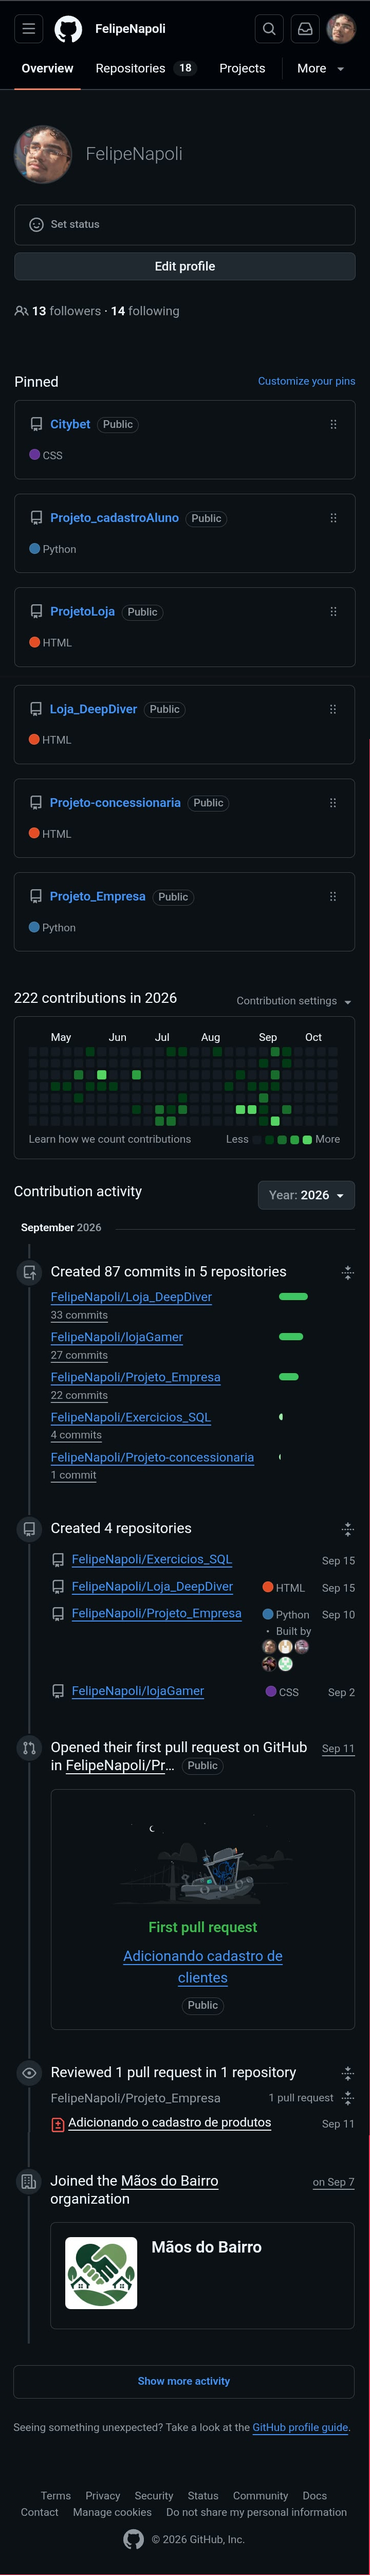
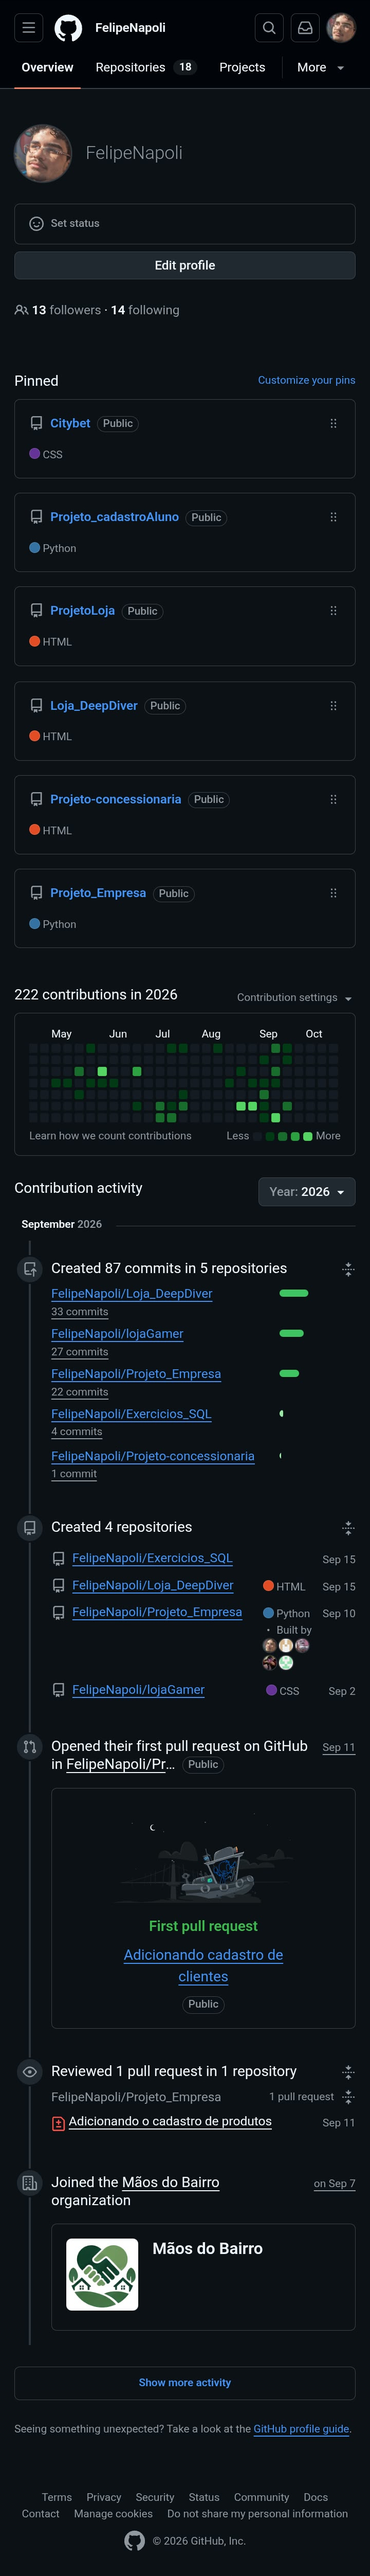
feat: Adicionando os links das páginas e ligando ao iframe

diff --git a/contatos.html b/contatos.html
@@ -93,6 +93,31 @@
             display: flex;
             align-items: center;
             justify-content: center;
+            transition: transform 0.3s ease, box-shadow 0.3s ease;
+        }
+
+        .botoes:hover {
+            cursor: pointer;
+            transform: scale(1.1);
+            box-shadow: 0 4px 8px rgba(0, 0, 0, 0.774);
+        }
+
+        .botoes:hover h3 {
+            color: var(--btn-color);
+            text-decoration: underline;
+            text-decoration-color: var(--btn-color);
+            text-decoration-thickness: 3px;
+            text-underline-offset: 4px;
+        }
+
+        .botoes:active {
+            transform: scale(1);
+            box-shadow: 0 2px 4px rgba(0, 0, 0, 0.774);
+        }
+
+        a {
+            text-decoration: none;
+            color: inherit;
         }
 
         .logo-botao {
@@ -192,31 +217,39 @@
 
     <main class="celular-conteiner">
         <div class="celular">
-            <iframe src="" frameborder="0">
+            <iframe src="" frameborder="0" name="contato">
 
             </iframe>
         </div>
 
         <section class="botoes-container">
-            <article class="botoes">
-                <img src="src/assets/home-icon.png" alt="logo-home" class="logo-botao">
-                <h3>Home</h3>
-            </article>
+            <a href="home.html" target="contato">
+                <article class="botoes">
+                    <img src="src/assets/home-icon.png" alt="logo-home" class="logo-botao">
+                    <h3>Home</h3>
+                </article>
+            </a>
 
-            <article class="botoes">
-                <img src="src/assets/GitHub-logo.png" alt="logo-github" class="logo-botao">
-                <h3>GitHub</h3>
-            </article>
+            <a href="github.html" target="contato">
+                <article class="botoes">
+                    <img src="src/assets/GitHub-logo.png" alt="logo-github" class="logo-botao">
+                    <h3>GitHub</h3>
+                </article>
+            </a>
 
-            <article class="botoes">
-                <img src="src/assets/logo-linkedln.png" alt="logo-linkedin" class="logo-botao">
-                <h3>Linkedln</h3>
-            </article>
+            <a href="linkedln.html" target="contato">
+                <article class="botoes">
+                    <img src="src/assets/logo-linkedln.png" alt="logo-linkedin" class="logo-botao">
+                    <h3>Linkedln</h3>
+                </article>
+            </a>
 
-            <article class="botoes">
-                <img src="src/assets/cockstar-logo.png" alt="logo-cockstar" class="logo-botao">
-                <h3 class="big-name">Referência ao jogo</h3>
-            </article>
+            <a href="cookstar.html" target="contato">
+                <article class="botoes">
+                    <img src="src/assets/cockstar-logo.png" alt="logo-cockstar" class="logo-botao">
+                    <h3 class="big-name">Referência ao jogo</h3>
+                </article>
+            </a>
 
         </section>
     </main>

diff --git a/cardapio.html b/cardapio.html
@@ -46,6 +46,26 @@
             align-content: center;
             text-align: center;
             cursor: pointer;
+            transition: transform 0.3s ease, box-shadow 0.3s ease;
+        }
+
+        .menu-cardapio-options:hover {
+            cursor: pointer;
+            transform: scale(1.1);
+            box-shadow: 0 4px 8px rgba(0, 0, 0, 0.774);
+        }
+
+        .menu-cardapio-options:hover h3 {
+            color: var(--header-bg);
+            text-decoration: underline;
+            text-decoration-color: var(--header-bg);
+            text-decoration-thickness: 3px;
+            text-underline-offset: 4px;
+        }
+
+        .menu-cardapio-options:active {
+            transform: scale(1);
+            box-shadow: 0 2px 4px rgba(0, 0, 0, 0.774);
         }
 
         .menu-cardapio-options img{

diff --git a/linkedln.html b/linkedln.html
@@ -4,9 +4,12 @@
     <meta charset="UTF-8">
     <meta name="viewport" content="width=device-width, initial-scale=1.0">
     <link rel="stylesheet" href="src/css/celular.css">
-    <title>Idave</title>
+    <title>Linkedln</title>
 </head>
 <body>
-    <img src="src/assets/tela-idave.png" alt="">
+    <img src="src/assets/linkedln.png" alt="Linkedln">
+    <a href="https://github.com/FelipeNapoli" target="_blank">
+        <button>Acesse Aqui!</button>
+    </a>
 </body>
 </html>

diff --git a/src/css/celular.css b/src/css/celular.css
@@ -20,6 +20,6 @@ button {
     padding: 30px;
     background-image: linear-gradient(to top, rgb(53, 53, 231), rgb(2, 31, 94), rgb(0, 4, 74));
     border: none;
-    margin-top: -20px;
+    margin-top: -5px;
     color: white;
 }
